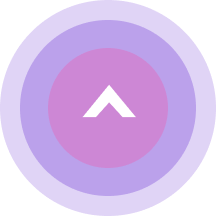
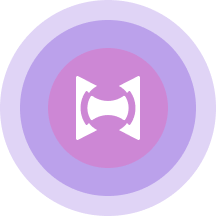
chore: Updating location device thumbnail

Changed region(s): [[0.3333, 0.3333, 0.6667, 0.6667]]

diff --git a/src/templates/fleet-tracking/core/location/deckgl-instance.ts b/src/templates/fleet-tracking/core/location/deckgl-instance.ts
@@ -19,8 +19,8 @@ type LayerResource = {
 
 const MODEL_URLS = {
   light:
-    'https://d33et8skld5wvq.cloudfront.net/glbs/spacedf/location-model-grey.glb',
-  dark: 'https://d33et8skld5wvq.cloudfront.net/glbs/spacedf/location-model-purple.glb',
+    'https://d33et8skld5wvq.cloudfront.net/glbs/spacedf/location-model-logo-grey.glb',
+  dark: 'https://d33et8skld5wvq.cloudfront.net/glbs/spacedf/location-model-logo-purple.glb',
 }
 
 const modelCache: Record<string, any> = {}
@@ -198,7 +198,8 @@ export class LocationDeckGLInstance {
       id: LAYER_IDS.LOCATION_DECKGL_LAYER,
       data: layerResource,
       getPosition: (d) => [d.position[0], d.position[1], 5],
-      getOrientation: (d) => [0, -d.direction, 0],
+      // getOrientation: (d) => [0, -d.direction, 0],
+      getOrientation: () => [0, 0, 0],
       opacity: this.type === 'visible' ? 1 : 0,
       sizeScale: this._getScaleByZoom(this.mapZoom),
       pickable: true,

diff --git a/src/templates/fleet-tracking/core/location/marker-instance.ts b/src/templates/fleet-tracking/core/location/marker-instance.ts
@@ -90,7 +90,7 @@ export class LocationMarker {
         pitchAlignment: 'viewport',
         rotationAlignment: 'map',
       })
-        .setRotation(device.deviceProperties?.direction ?? 0)
+        // .setRotation(device.deviceProperties?.direction ?? 0)
         .setLngLat(position)
         .addTo(this.map)
 
